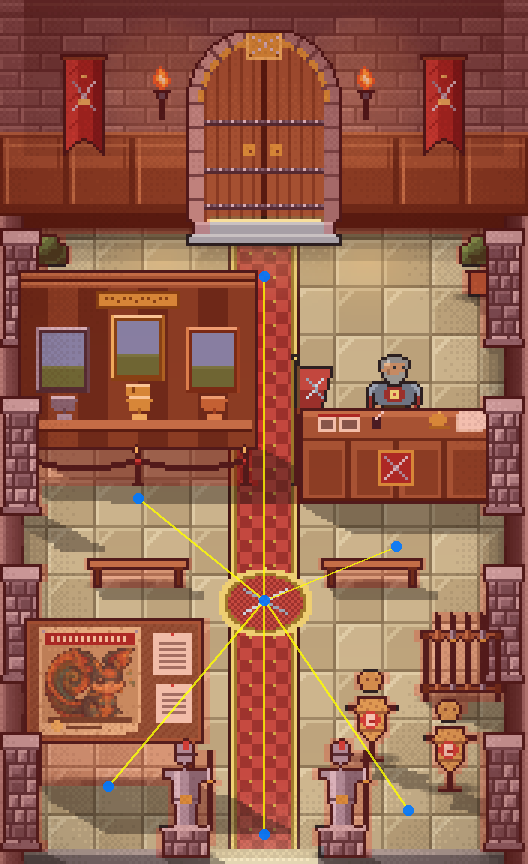
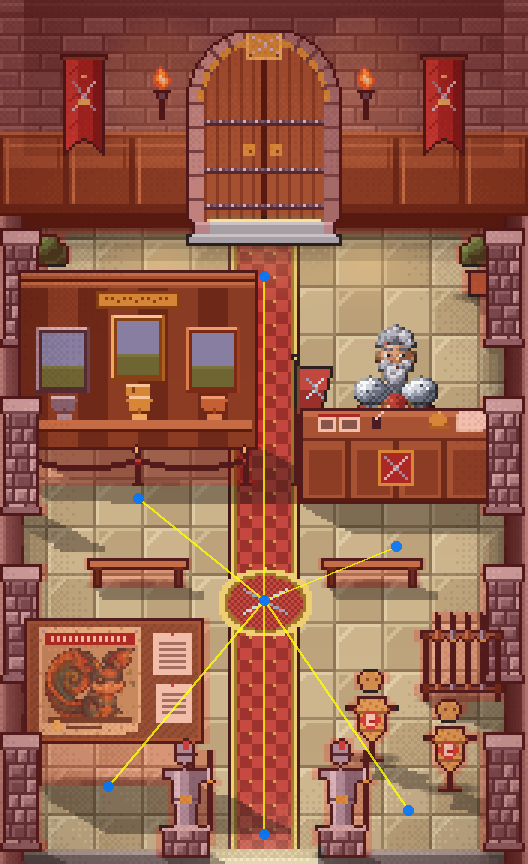
Pulty jako 3/4 modely: deska s hloubkou, stín pod přesahem, vystouplé panely, boční křídla, předměty se stíny (Věž: černý mramor a ořech, Aréna: dub)
Claude-Session: https://claude.ai/code/session_01DEnSwqHYg5ekKXqGuApBa4

Changed region(s): [[0.6667, 0.375, 0.8485, 0.5]]

diff --git a/tools/mapgen/gen_tower.py b/tools/mapgen/gen_tower.py
@@ -19,7 +19,7 @@ HERE = os.path.dirname(os.path.abspath(__file__))
 sys.path.insert(0, HERE)
 sys.path.insert(0, os.path.join(HERE, "tower")); sys.path.insert(0, os.path.join(HERE, "ashplain"))
 import walkmask  # noqa: E402
-import tower_parts as P, light as L  # noqa: E402
+import tower_parts as P, light as L, figures as F  # noqa: E402
 from pix import c, Spr, outline  # noqa: E402
 
 ROOT = os.path.join(HERE, "..", "..")
@@ -58,9 +58,9 @@ def place(spr, cx, by, z=None, collide=True, pad=2, shadow=True, foot=None):
         else:
             walkmask.silhouette(block, spr.a[:, :, 3], int(cx - spr.w // 2), int(by - spr.h), pad)
 
-sept = P.sept(); desk = P.desk(66, 30)
+sept = F.sept(); desk = P.desk(66, 30)
 DESK_X, DESK_Y = 132, 198
-place(sept, DESK_X + 4, DESK_Y - 17, z=DESK_Y - 40, collide=False, shadow=False)
+place(sept, DESK_X + 4, DESK_Y - 20, z=DESK_Y - 40, collide=False, shadow=False)
 place(desk, DESK_X, DESK_Y, foot=(66, 22))
 place(P.stanchion_line(52), DESK_X + 6, 228, pad=1)
 place(P.queue_board(), 26, 186)
@@ -215,7 +215,7 @@ Image.fromarray(fac[:, :, :3]).save(os.path.join(ROOT, "app", "src", "main", "re
 leaf = P.door_leaf(portal[2], portal[3])
 Image.fromarray(leaf, "RGBA").save(os.path.join(ROOT, "app", "src", "main", "res", "drawable-nodpi", "tower_door_leaf.png"))
 # portrét archiváře Septa pro deník a dialogy (10× bez vyhlazení, jako Makromoni)
-sp = P.sept().a
+sp = F.sept().a
 Image.fromarray(sp, "RGBA").resize((sp.shape[1] * 10, sp.shape[0] * 10), Image.NEAREST).save(
     os.path.join(ROOT, "app", "src", "main", "res", "drawable-nodpi", "npc_sept.png"))
 print("ok", AW, AH, "portal", portal, "desk", (DESK_X, DESK_Y))

diff --git a/tools/mapgen/gen_arena_hall.py b/tools/mapgen/gen_arena_hall.py
@@ -21,7 +21,7 @@ sys.path.insert(0, os.path.join(HERE, "arena")); sys.path.insert(0, os.path.join
 sys.path.insert(0, os.path.join(HERE, "orchard"))
 import hall_parts as P, pix  # noqa: E402
 sys.path.insert(0, os.path.join(HERE, "tower"))
-import light as L  # noqa: E402  (vržené stíny, stín u stěn, viněta – docs/adr/0103)
+import light as L, figures as F  # noqa: E402  (vržené stíny, stín u stěn, viněta – docs/adr/0103)
 from pix import c, Spr  # noqa: E402
 from pixart import K, STN, stones  # noqa: E402
 
@@ -105,7 +105,7 @@ for py in range(WALL_H + 40, AH, 56):
 hof = P.hall_of_fame()
 place(hof, 46, 150, foot=(80, 24))
 place(P.rope_barrier(76), 46, 162, foot=(76, 3))
-place(P.commander(), 132, 152, foot=None, z=150)
+place(F.kassar(), 132, 147, foot=None, z=150)
 place(P.desk(), 132, 168, foot=(64, 16))
 # nástěnka HLEDÁ SE u vchodu vlevo
 src = Image.open(glob.glob(os.path.join(ROOT, "app", "src", "main", "res", "drawable*", "makromon_19_drakirra.png"))[0]).convert("RGBA")
